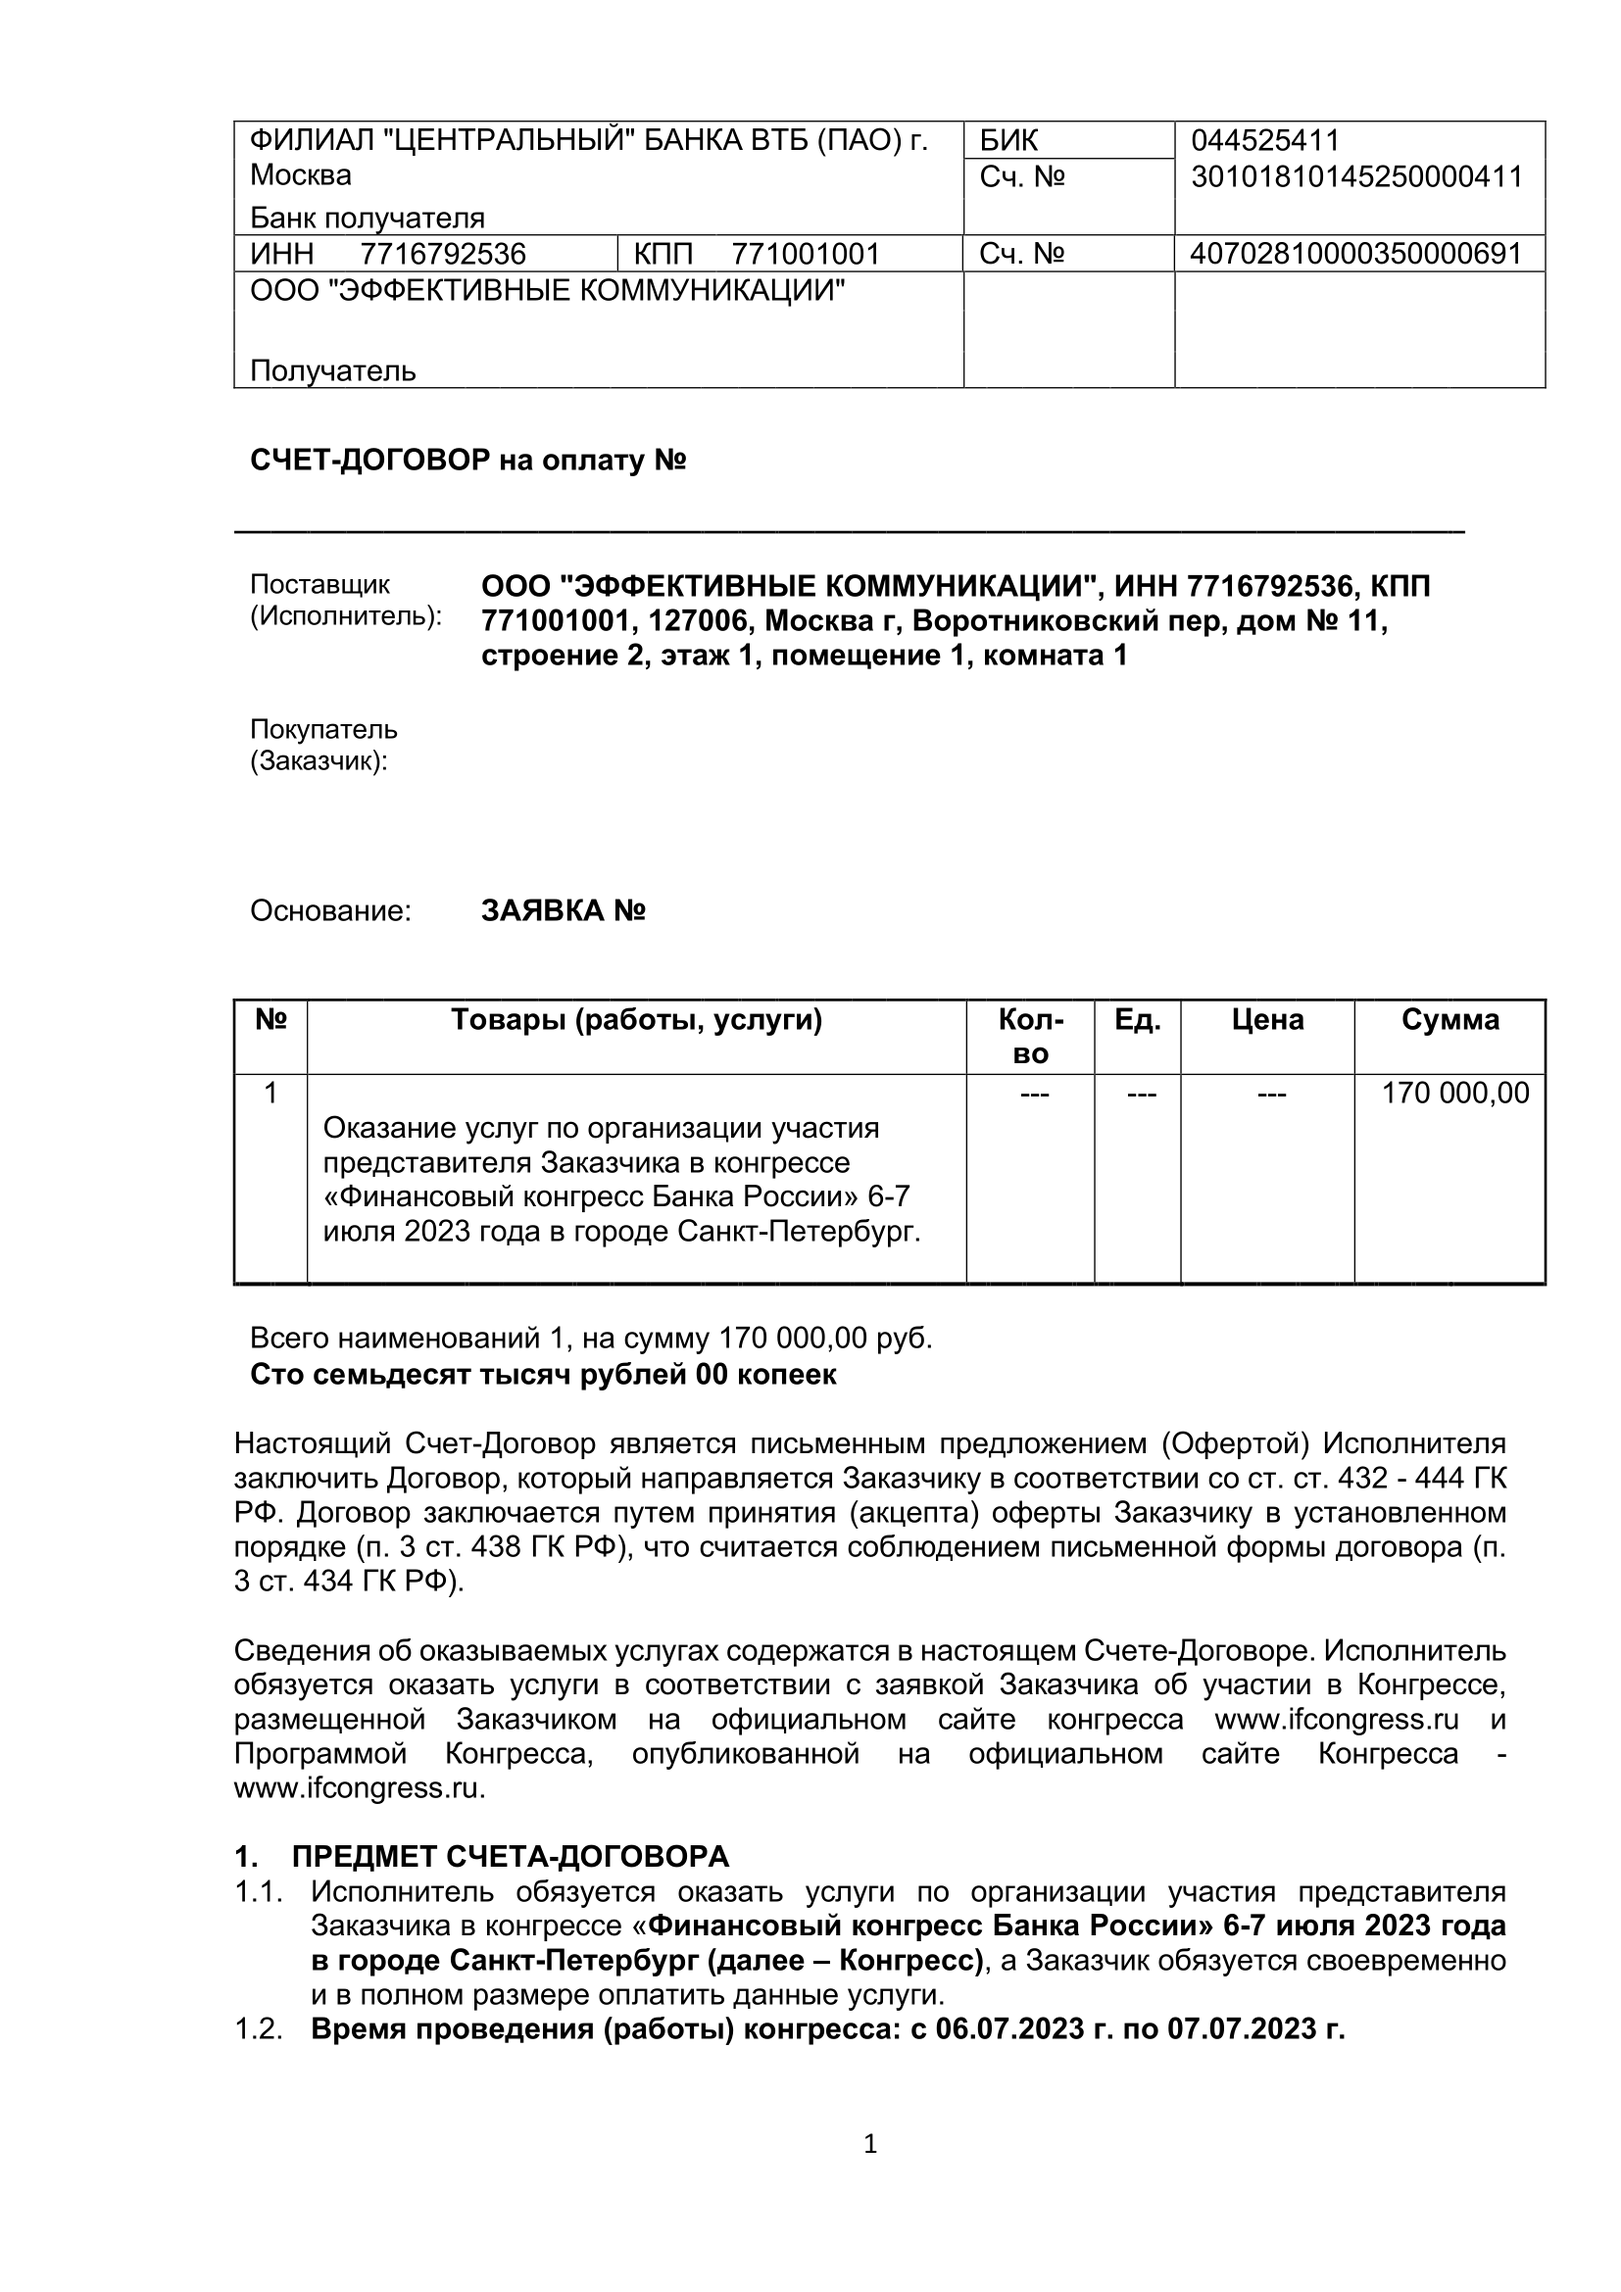
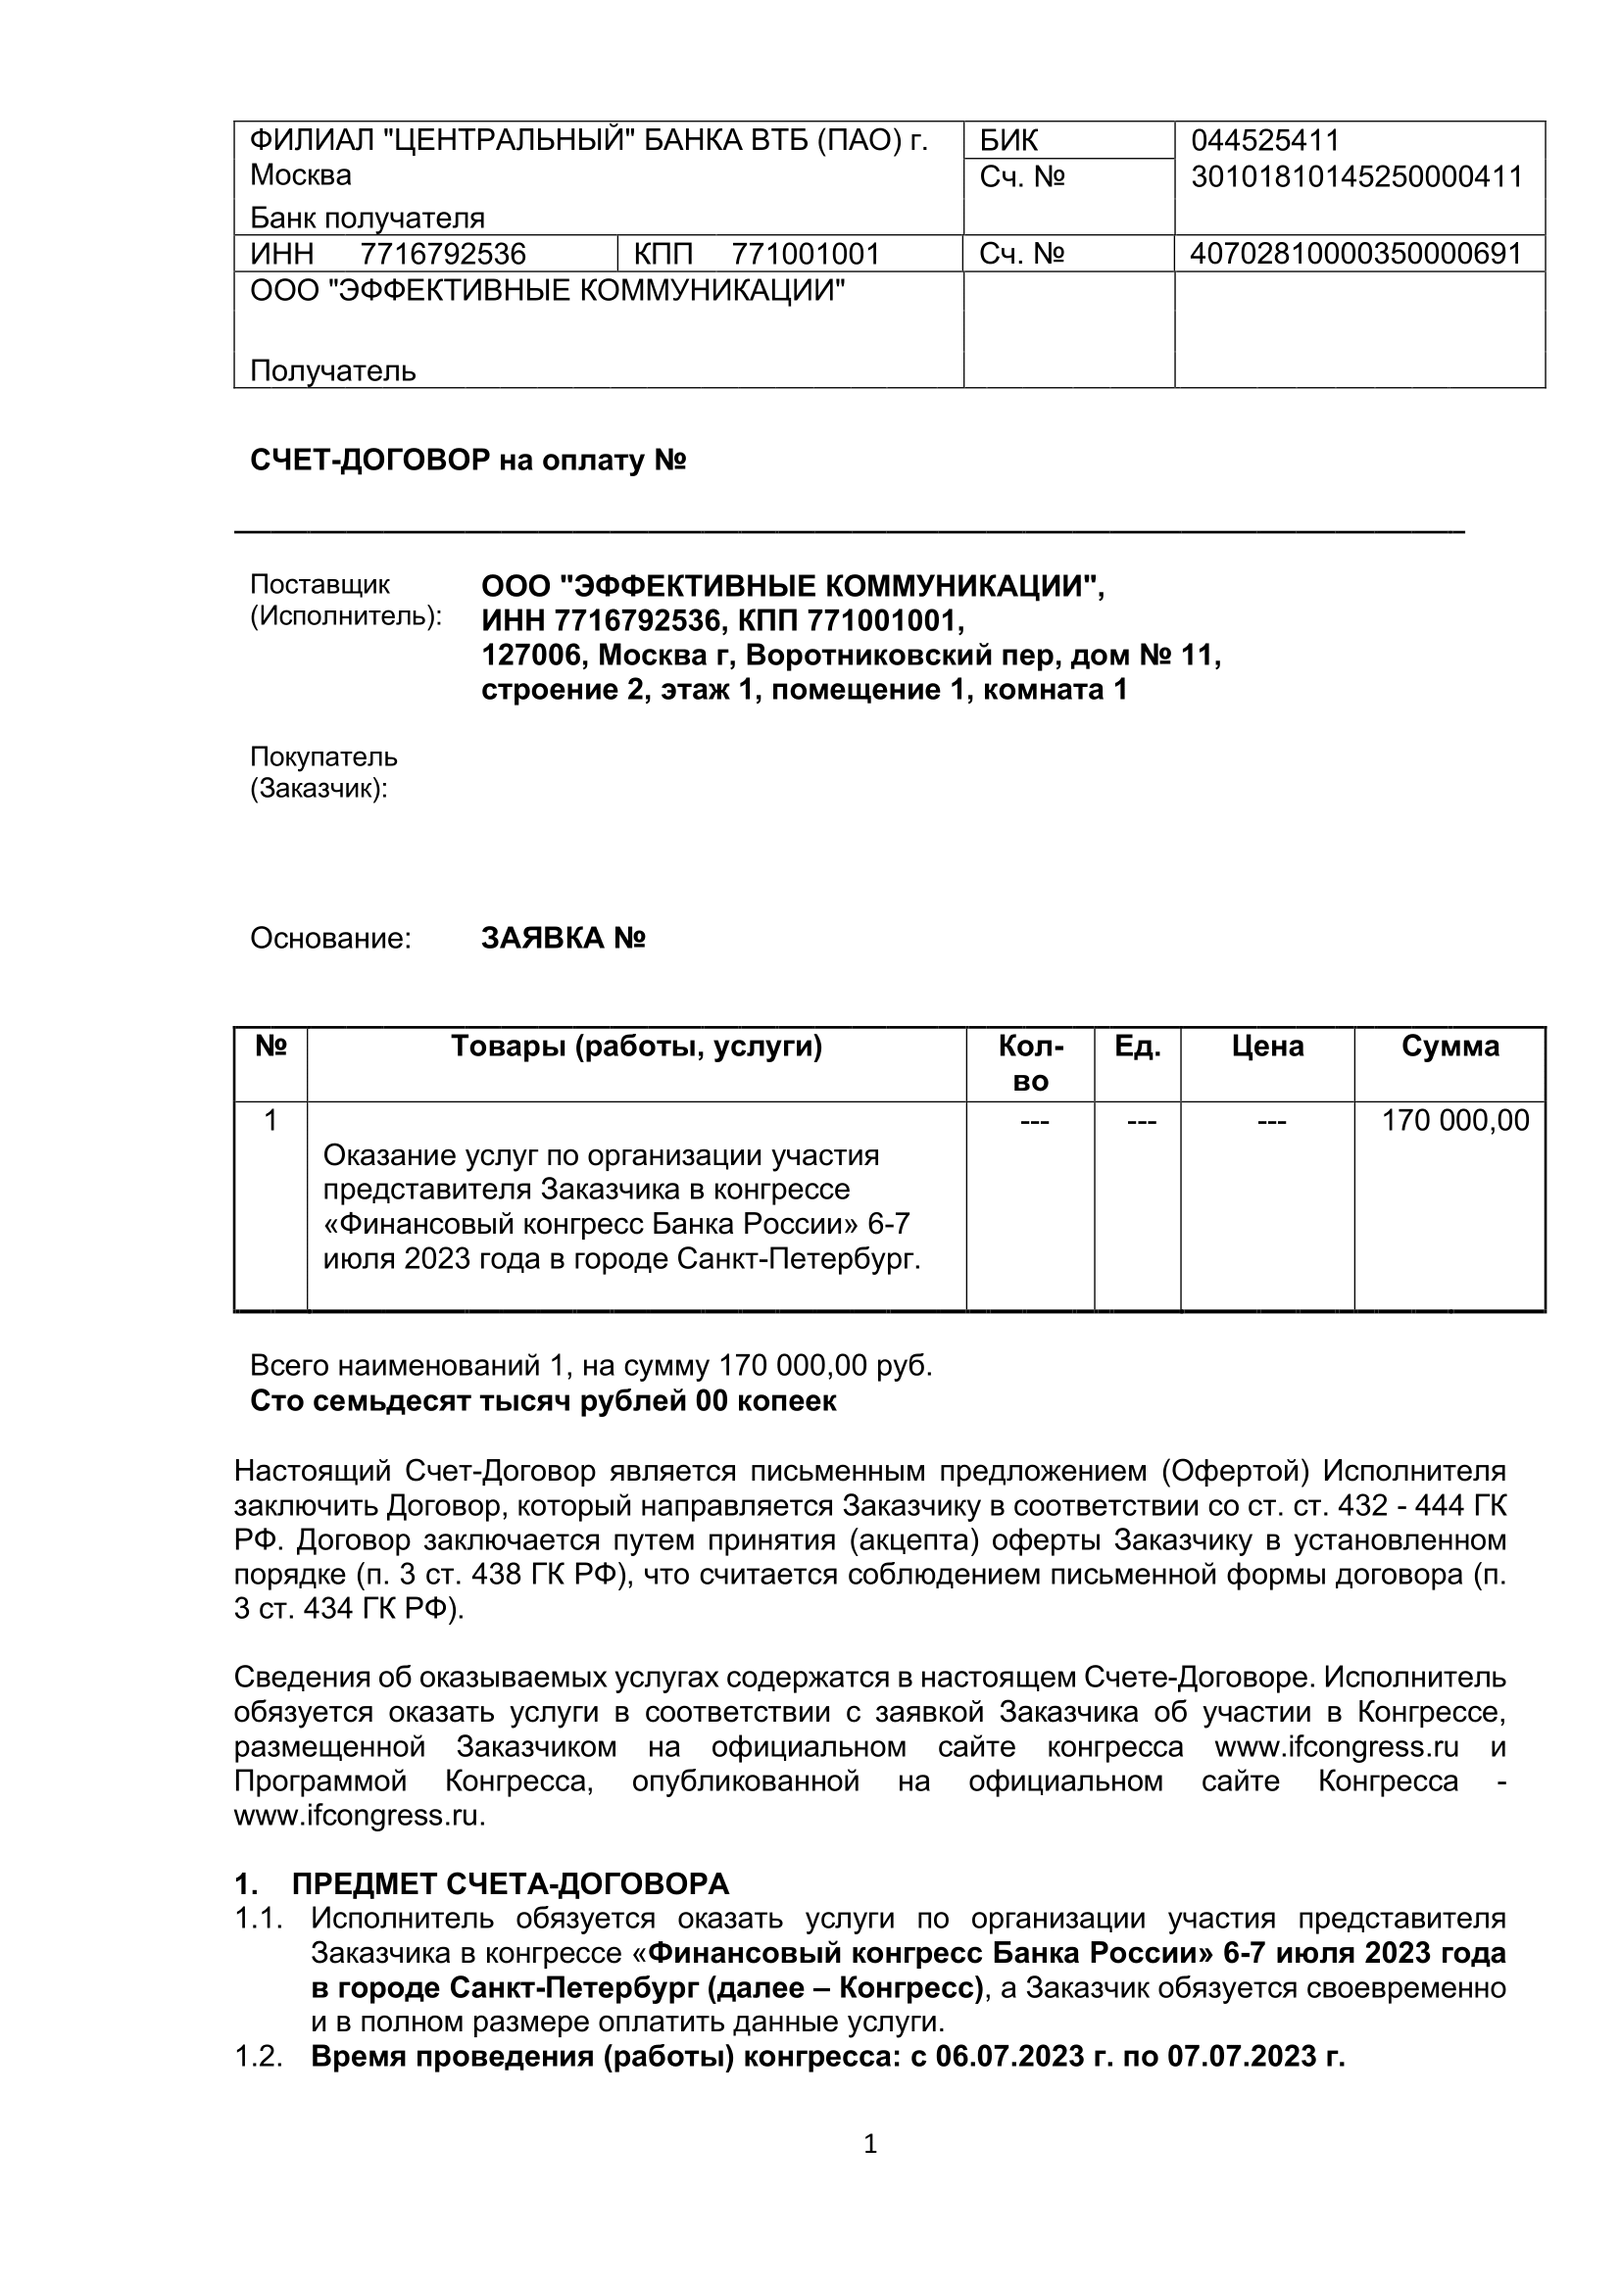
ыы

diff --git a/routes/staticRouter.js b/routes/staticRouter.js
@@ -102,6 +102,10 @@ router.get('/invoice/:guid', async function (req, res, next) {
             if(invoices.length==0)
                 return res.sendStatus(404);
             let inv=invoices[0]
+            let recvizit=inv.company.name+","
+            recvizit+="\r\nИНН "+inv.company.inn+", КПП "+inv.company.kpp+","
+            recvizit+=inv.company.address
+
             var doc = new PDFDocument({size: 'a4', layout: 'portrait'});
             let filename=__dirname+"/../public/static/invoices/invoice_22.pdf"
             doc.pipe(fs.createWriteStream(filename));
@@ -112,6 +116,7 @@ router.get('/invoice/:guid', async function (req, res, next) {
                 .fontSize(12)
                 .fillColor('#000000')
                 .text( inv.id+" от " +moment(inv.date).format("DD.MM.YYYY")+"г.", /*x*/ 260 , /*y*/ 163,{width: 400})
+                .text( recvizit, /*x*/ 120 , /*y*/ 263,{width: 400})
             doc.addPage()
                 .image(__dirname+"/../forpdf/invoice/02.png",0,0,{width:600})
             doc.addPage()
